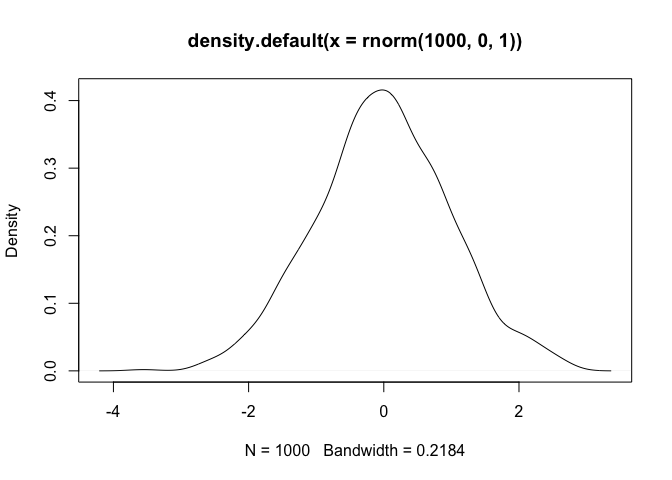
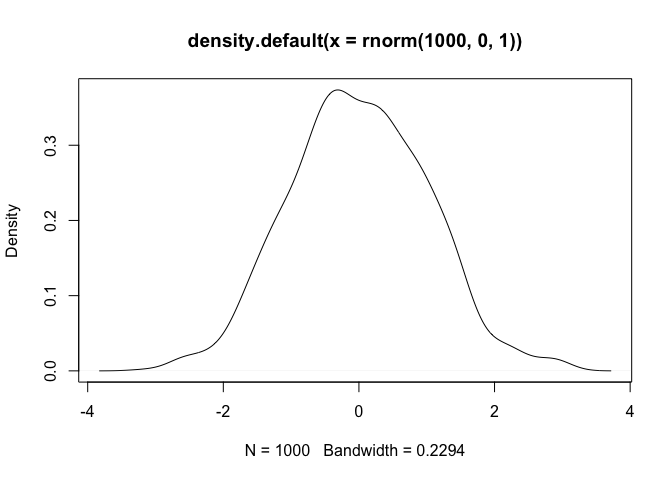
zz

diff --git a/ReprexMD.md b/ReprexMD.md
@@ -1,0 +1,17 @@
+## What reprex provide
+
+Describe your issue very briefly here. Then show it with a minimal,
+self-contained example in the following R chunk.
+
+    x <- 1
+    y <- 2
+    x + y
+
+    ## [1] 3
+
+Inline code is working? 2 Plot will be automatically uploaded to imgur.
+Don’t know whether it is good or bad thing?
+
+    plot(density(rnorm(1000, 0, 1)))
+
+![](ReprexMD_files/figure-markdown_strict/plot-1.png)

diff --git a/ReprexMD_reprex.md b/ReprexMD_reprex.md
@@ -1,6 +1,6 @@
 ---
 author: trinhdhk
-date: 2021-07-05
+date: 2021-07-06
 knit: "reprex::reprex_render"
 output:
   reprex::reprex_document:
@@ -28,7 +28,7 @@ Plot will be automatically uploaded to imgur. Don’t know whether it is good or
 plot(density(rnorm(1000, 0, 1)))
 ```
 
-![](https://i.imgur.com/q725DF8.png)
+![](https://i.imgur.com/fcRfgl3.png)
 
 <details style="margin-bottom:10px;">
 <summary>
